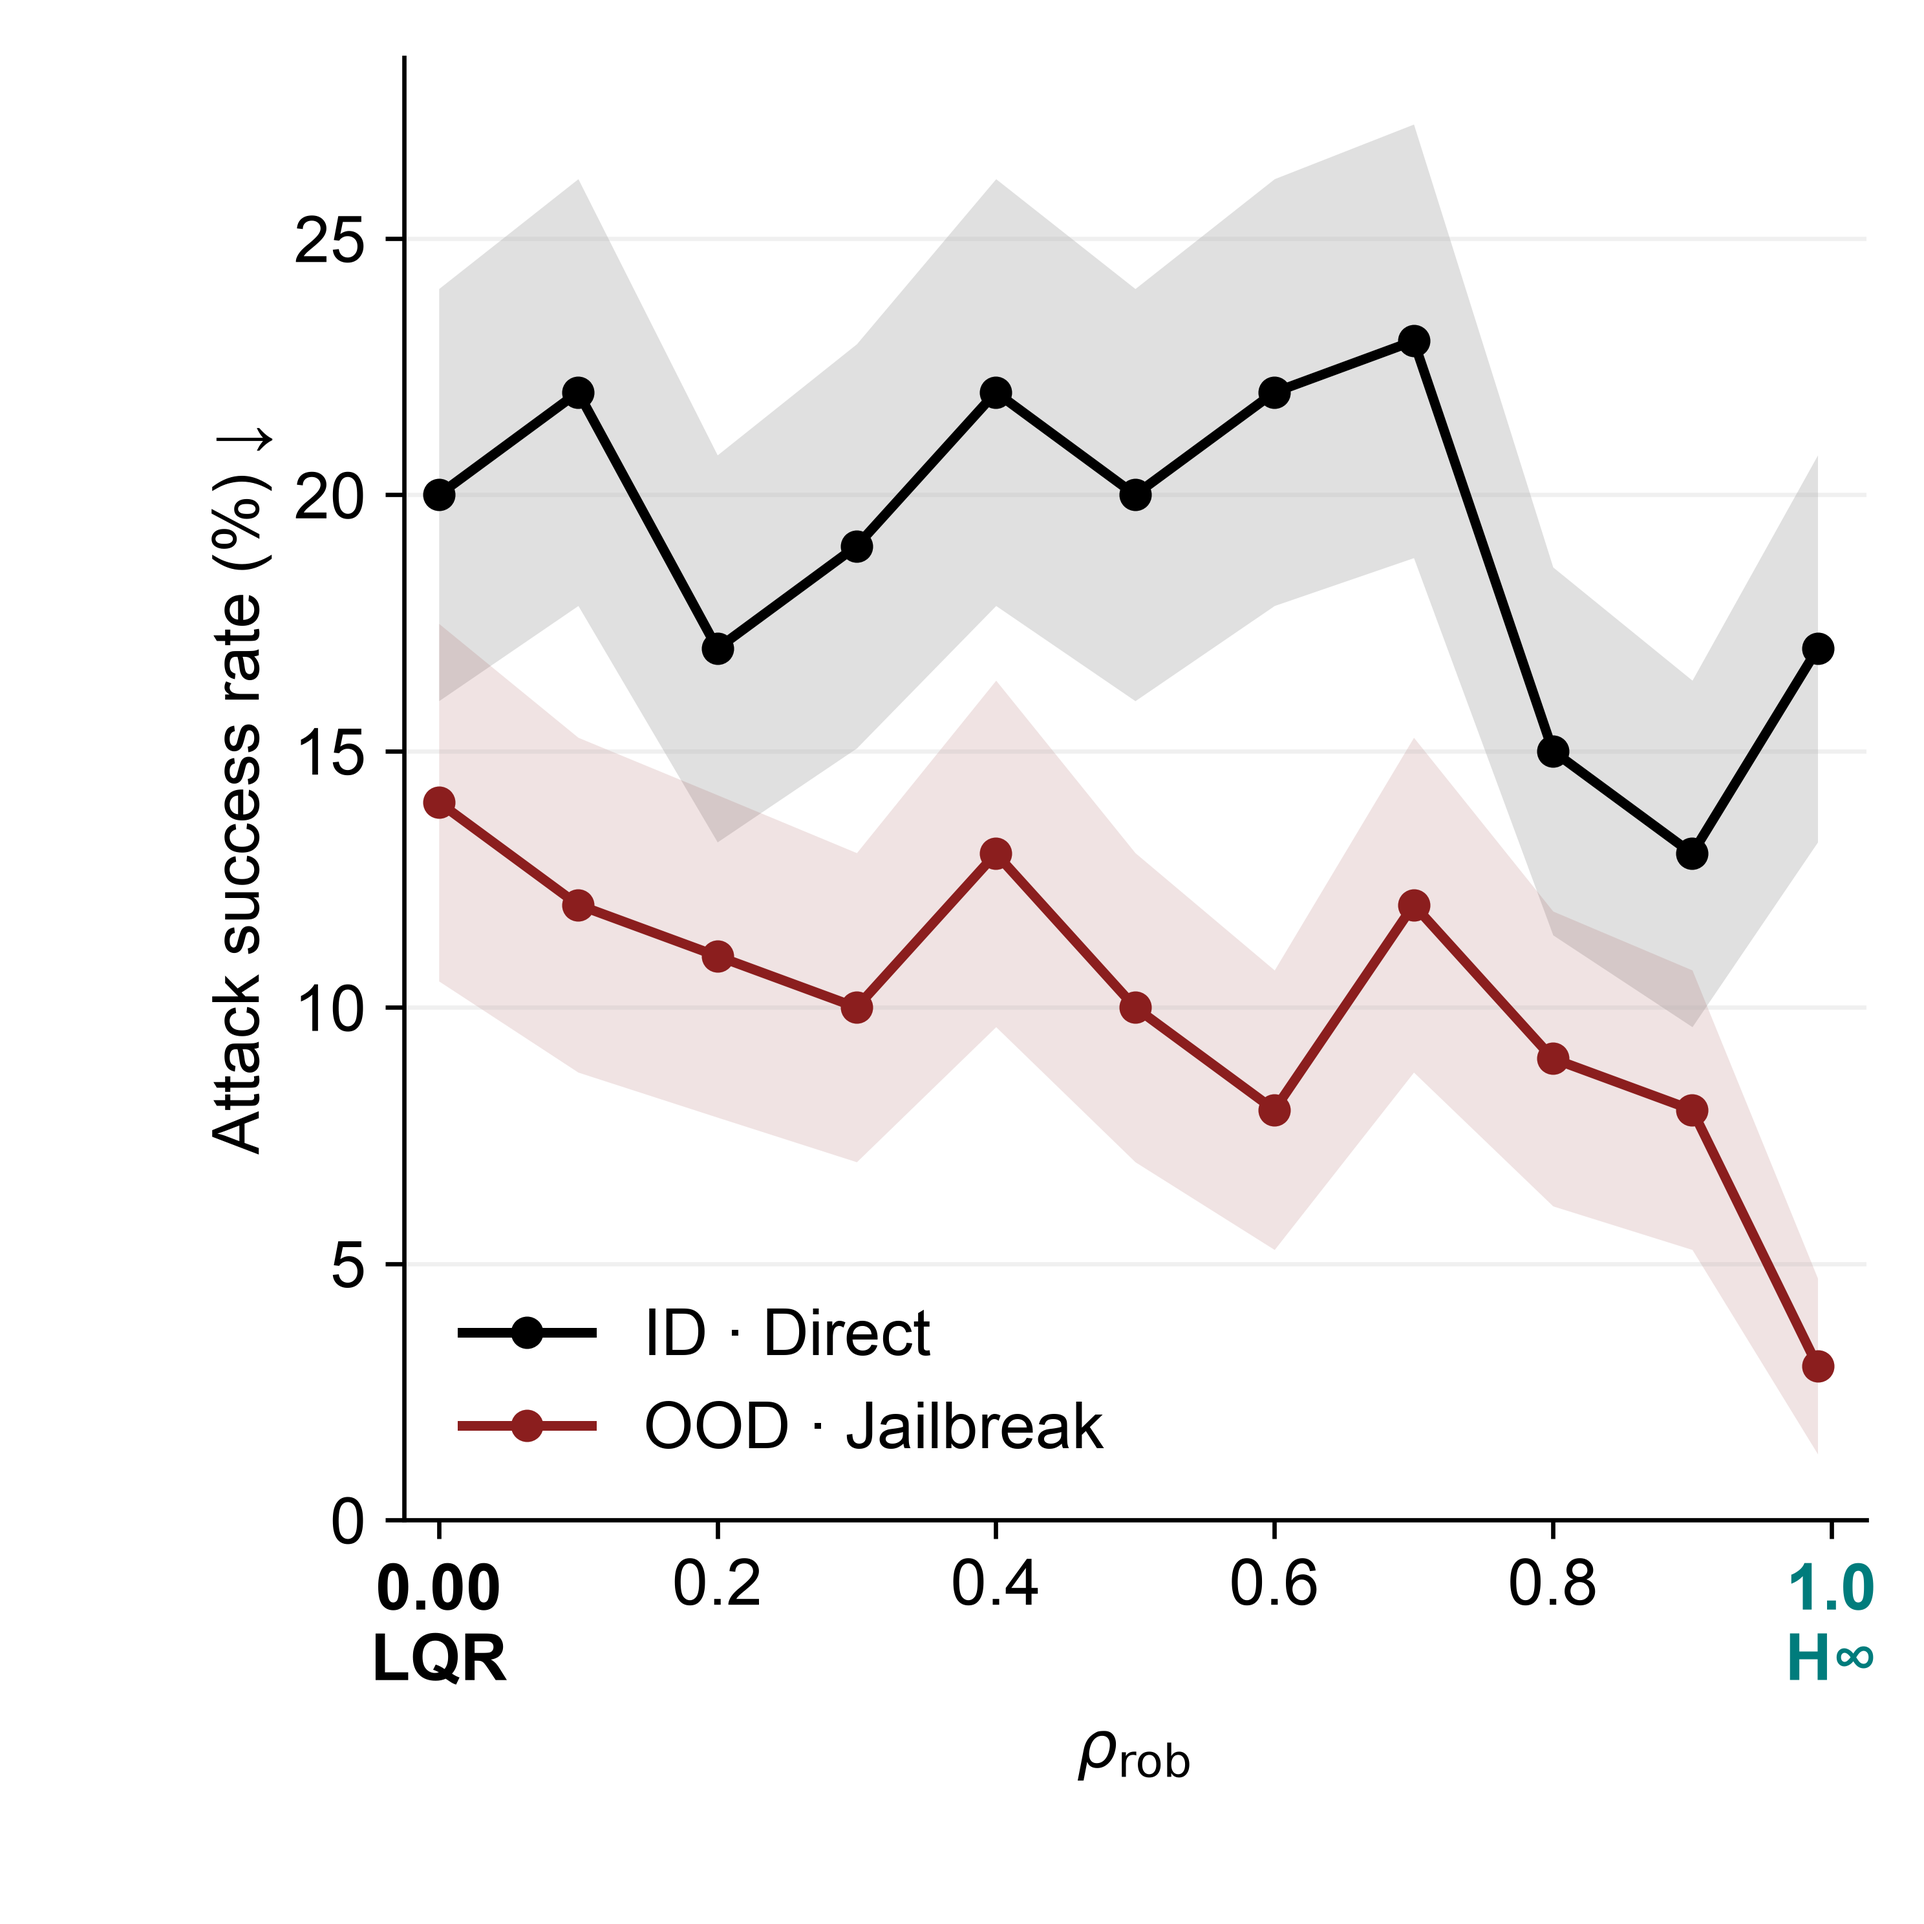
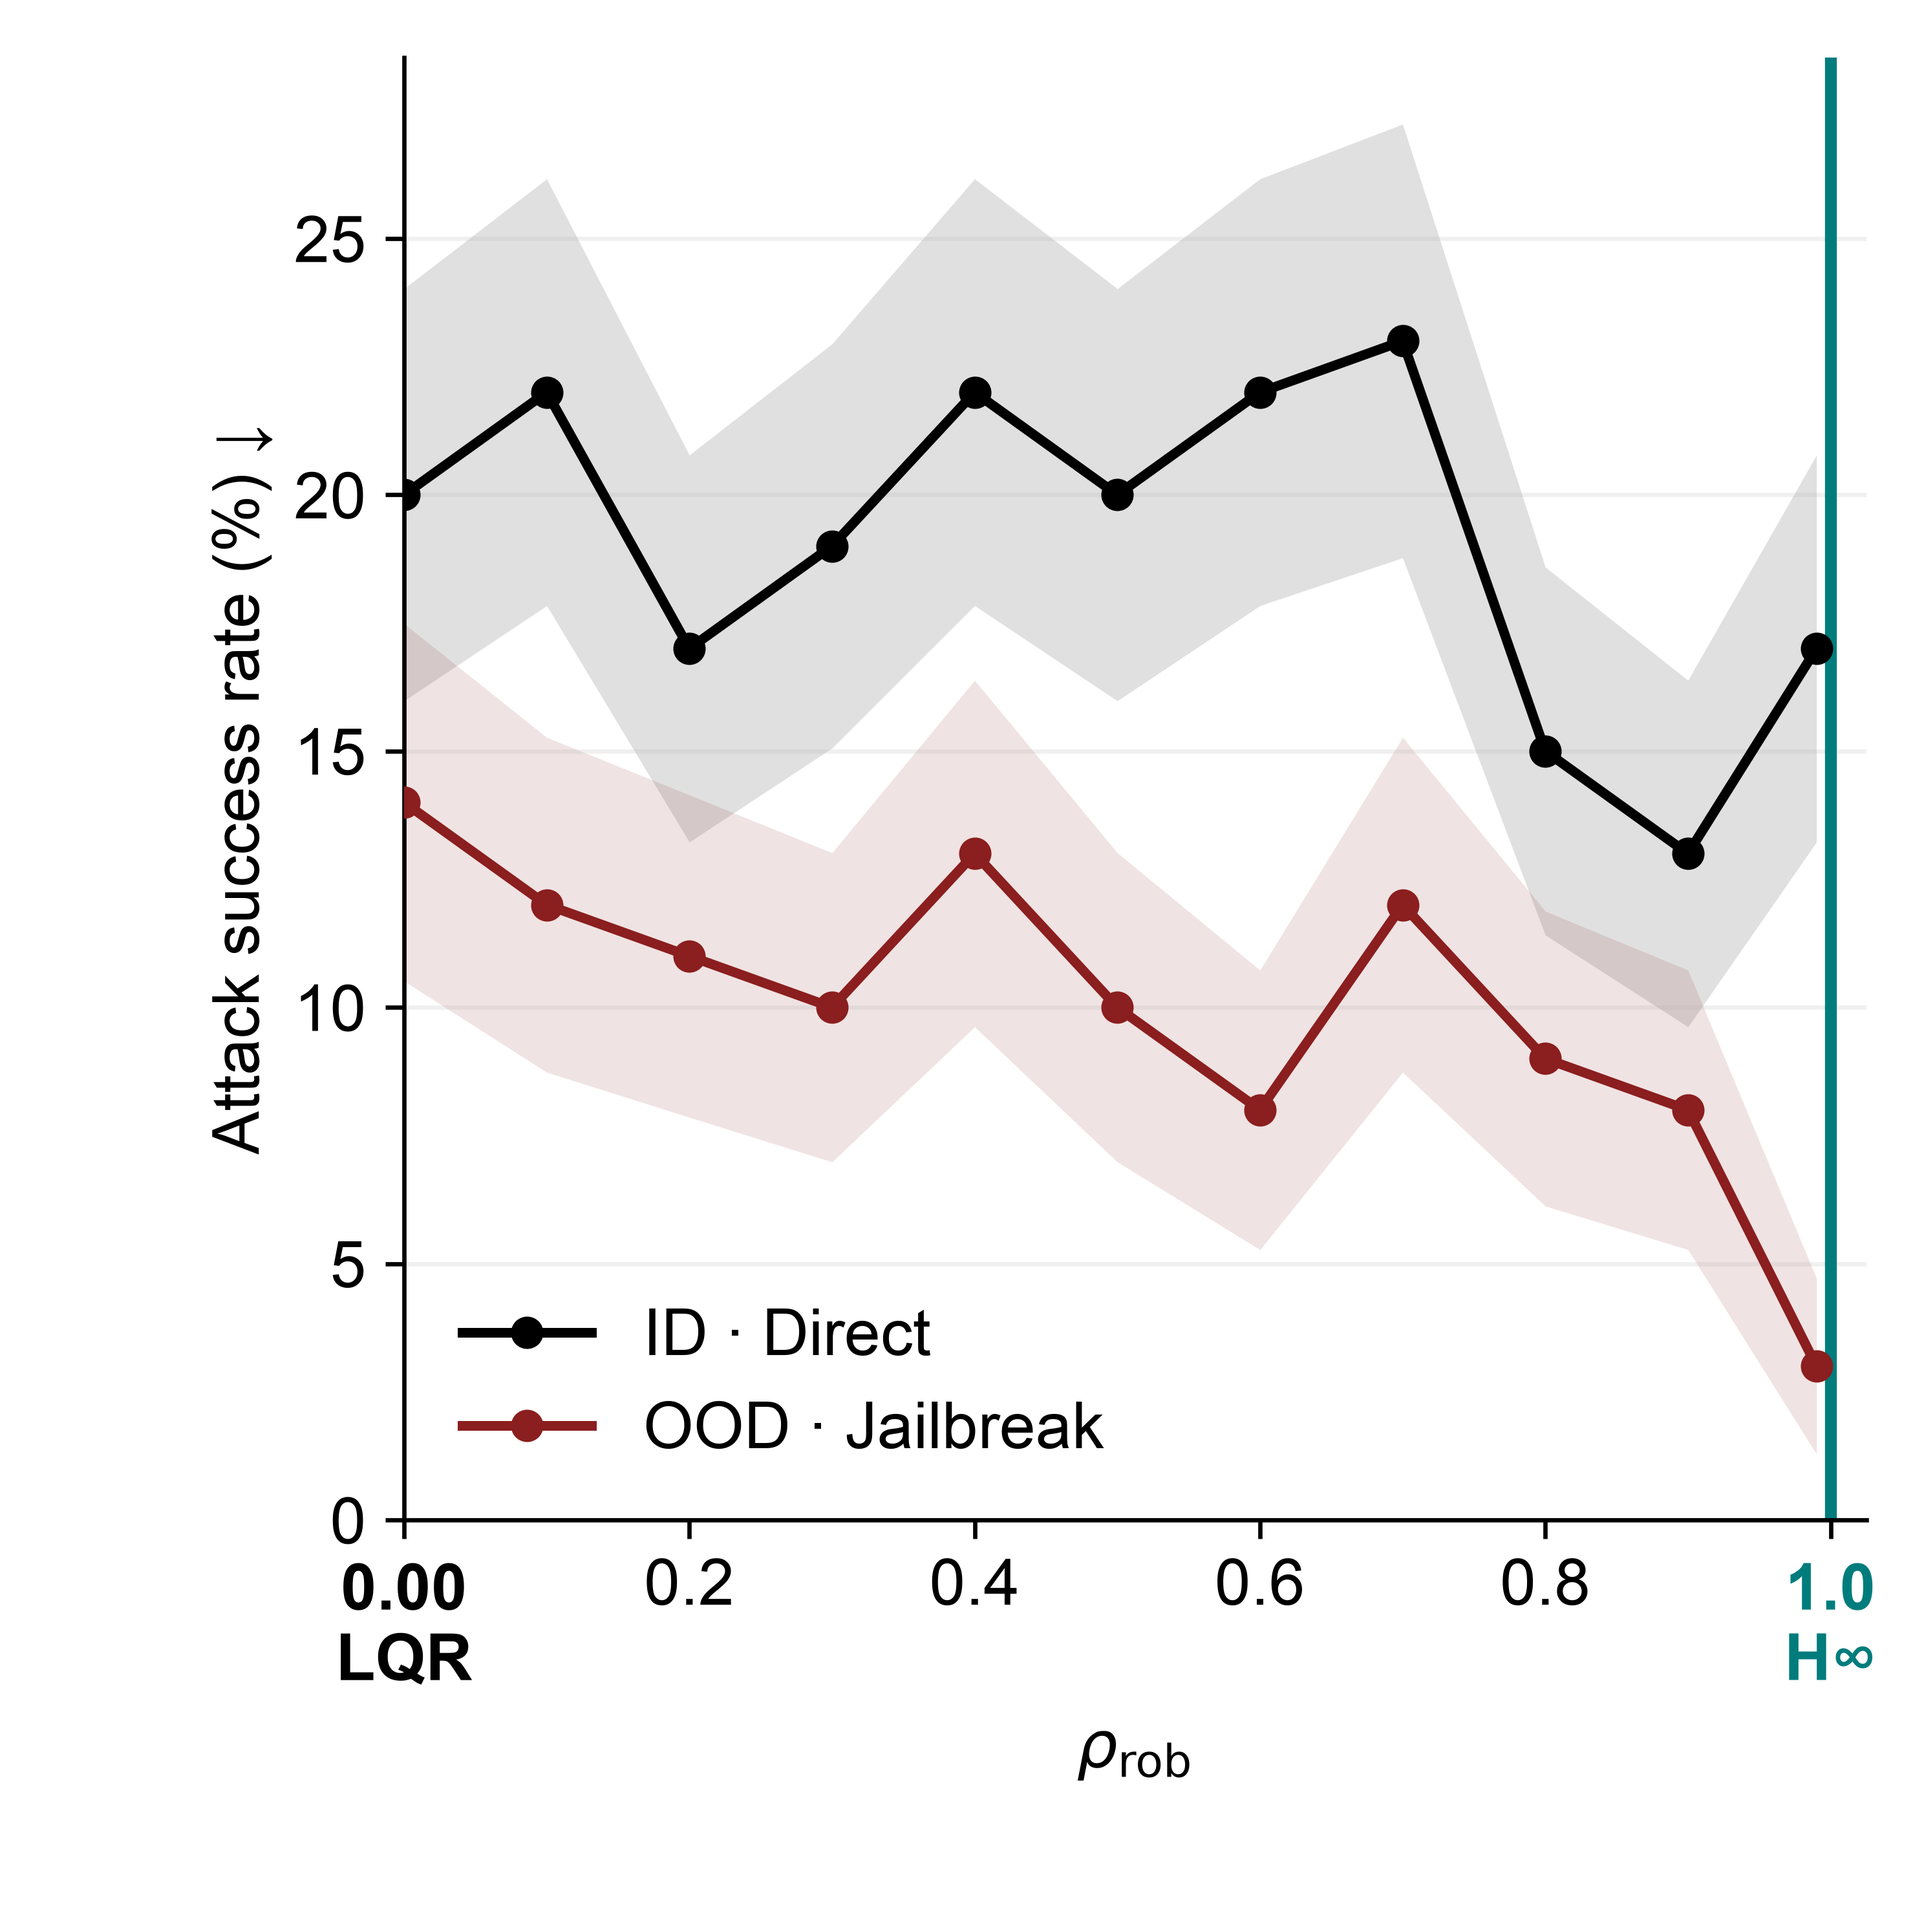
style: align zero with y-axis and emphasize H-infinity boundary

diff --git a/parking/rudra_rebuttal_gamma_sweep/plot.py b/parking/rudra_rebuttal_gamma_sweep/plot.py
@@ -76,13 +76,14 @@ def make_plot():
         ax.plot([r['rho'] for r in subset], [r['asr_percent'] for r in subset],
                 '-o', color=color, label=label, linewidth=1.8, markersize=5, zorder=3)
     ax.set(xlabel=r'$\rho_{\mathrm{rob}}$',
-           ylabel='Attack success rate (%) ↓', xlim=(-.025, 1.025), ylim=(0, None))
+           ylabel='Attack success rate (%) ↓', xlim=(0., 1.025), ylim=(0, None))
     ax.set_xticks([0, .2, .4, .6, .8, 1.],
                   labels=['0.00\nLQR', '0.2', '0.4', '0.6', '0.8', '1.0\nH∞'])
     ticks = ax.get_xticklabels()
     ticks[0].set_fontweight('bold')
     ticks[-1].set_fontweight('bold')
     ticks[-1].set_color('#007C7C')
+    ax.axvline(1., color='#007C7C', linewidth=2.2, zorder=2)
     ax.grid(axis='y', alpha=.18)
     ax.legend(frameon=False, loc='lower left')
     fig.subplots_adjust(left=.21, right=.97, top=.97, bottom=.21)
